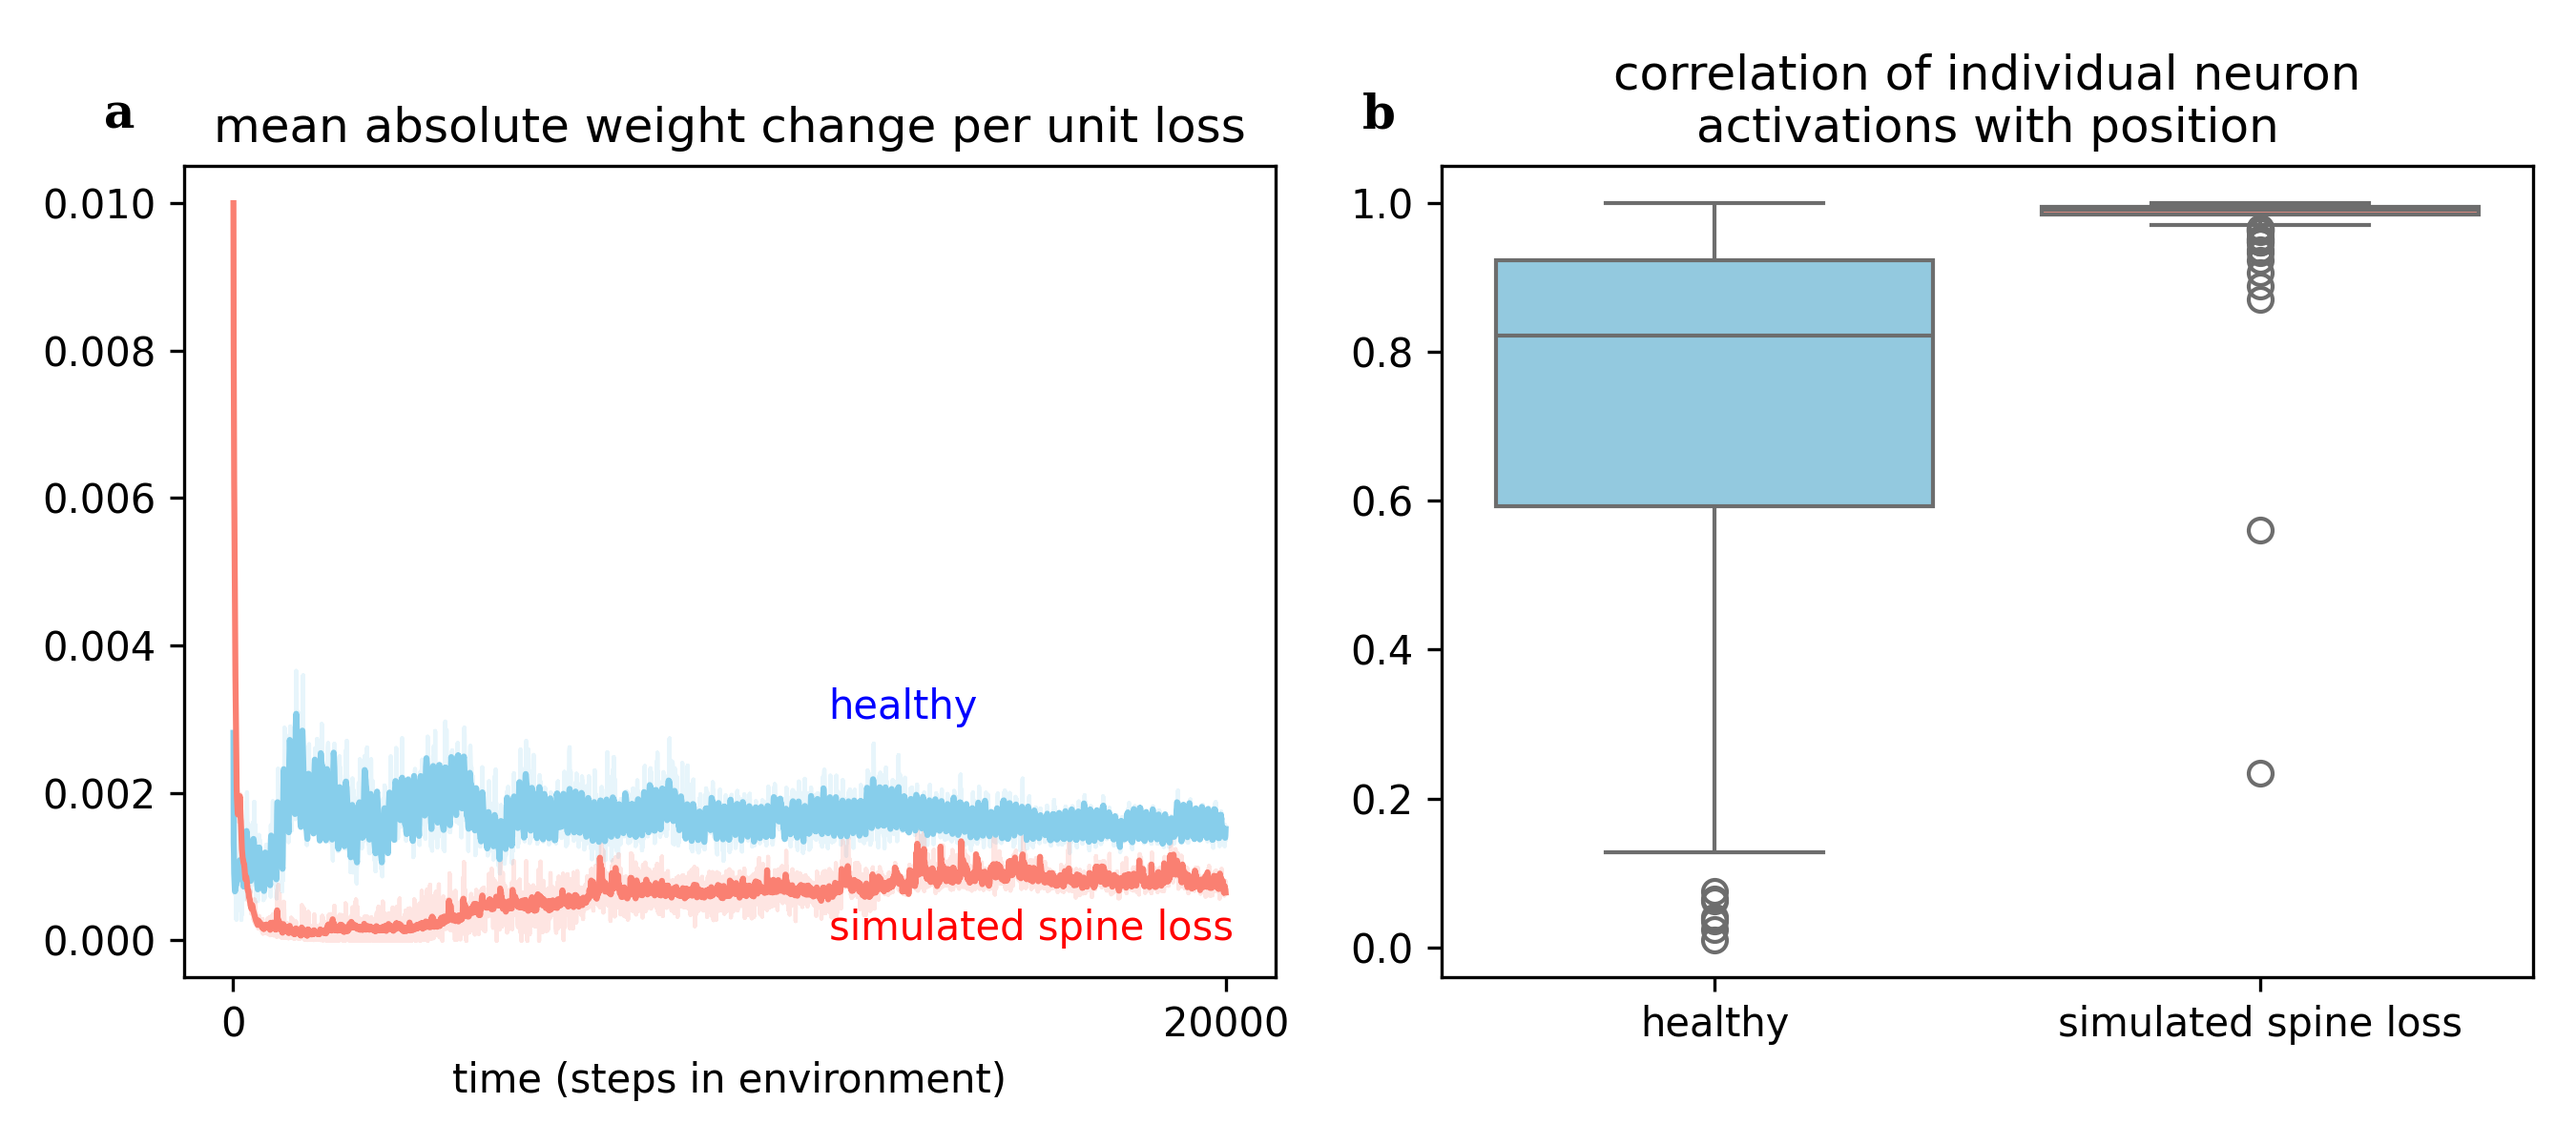
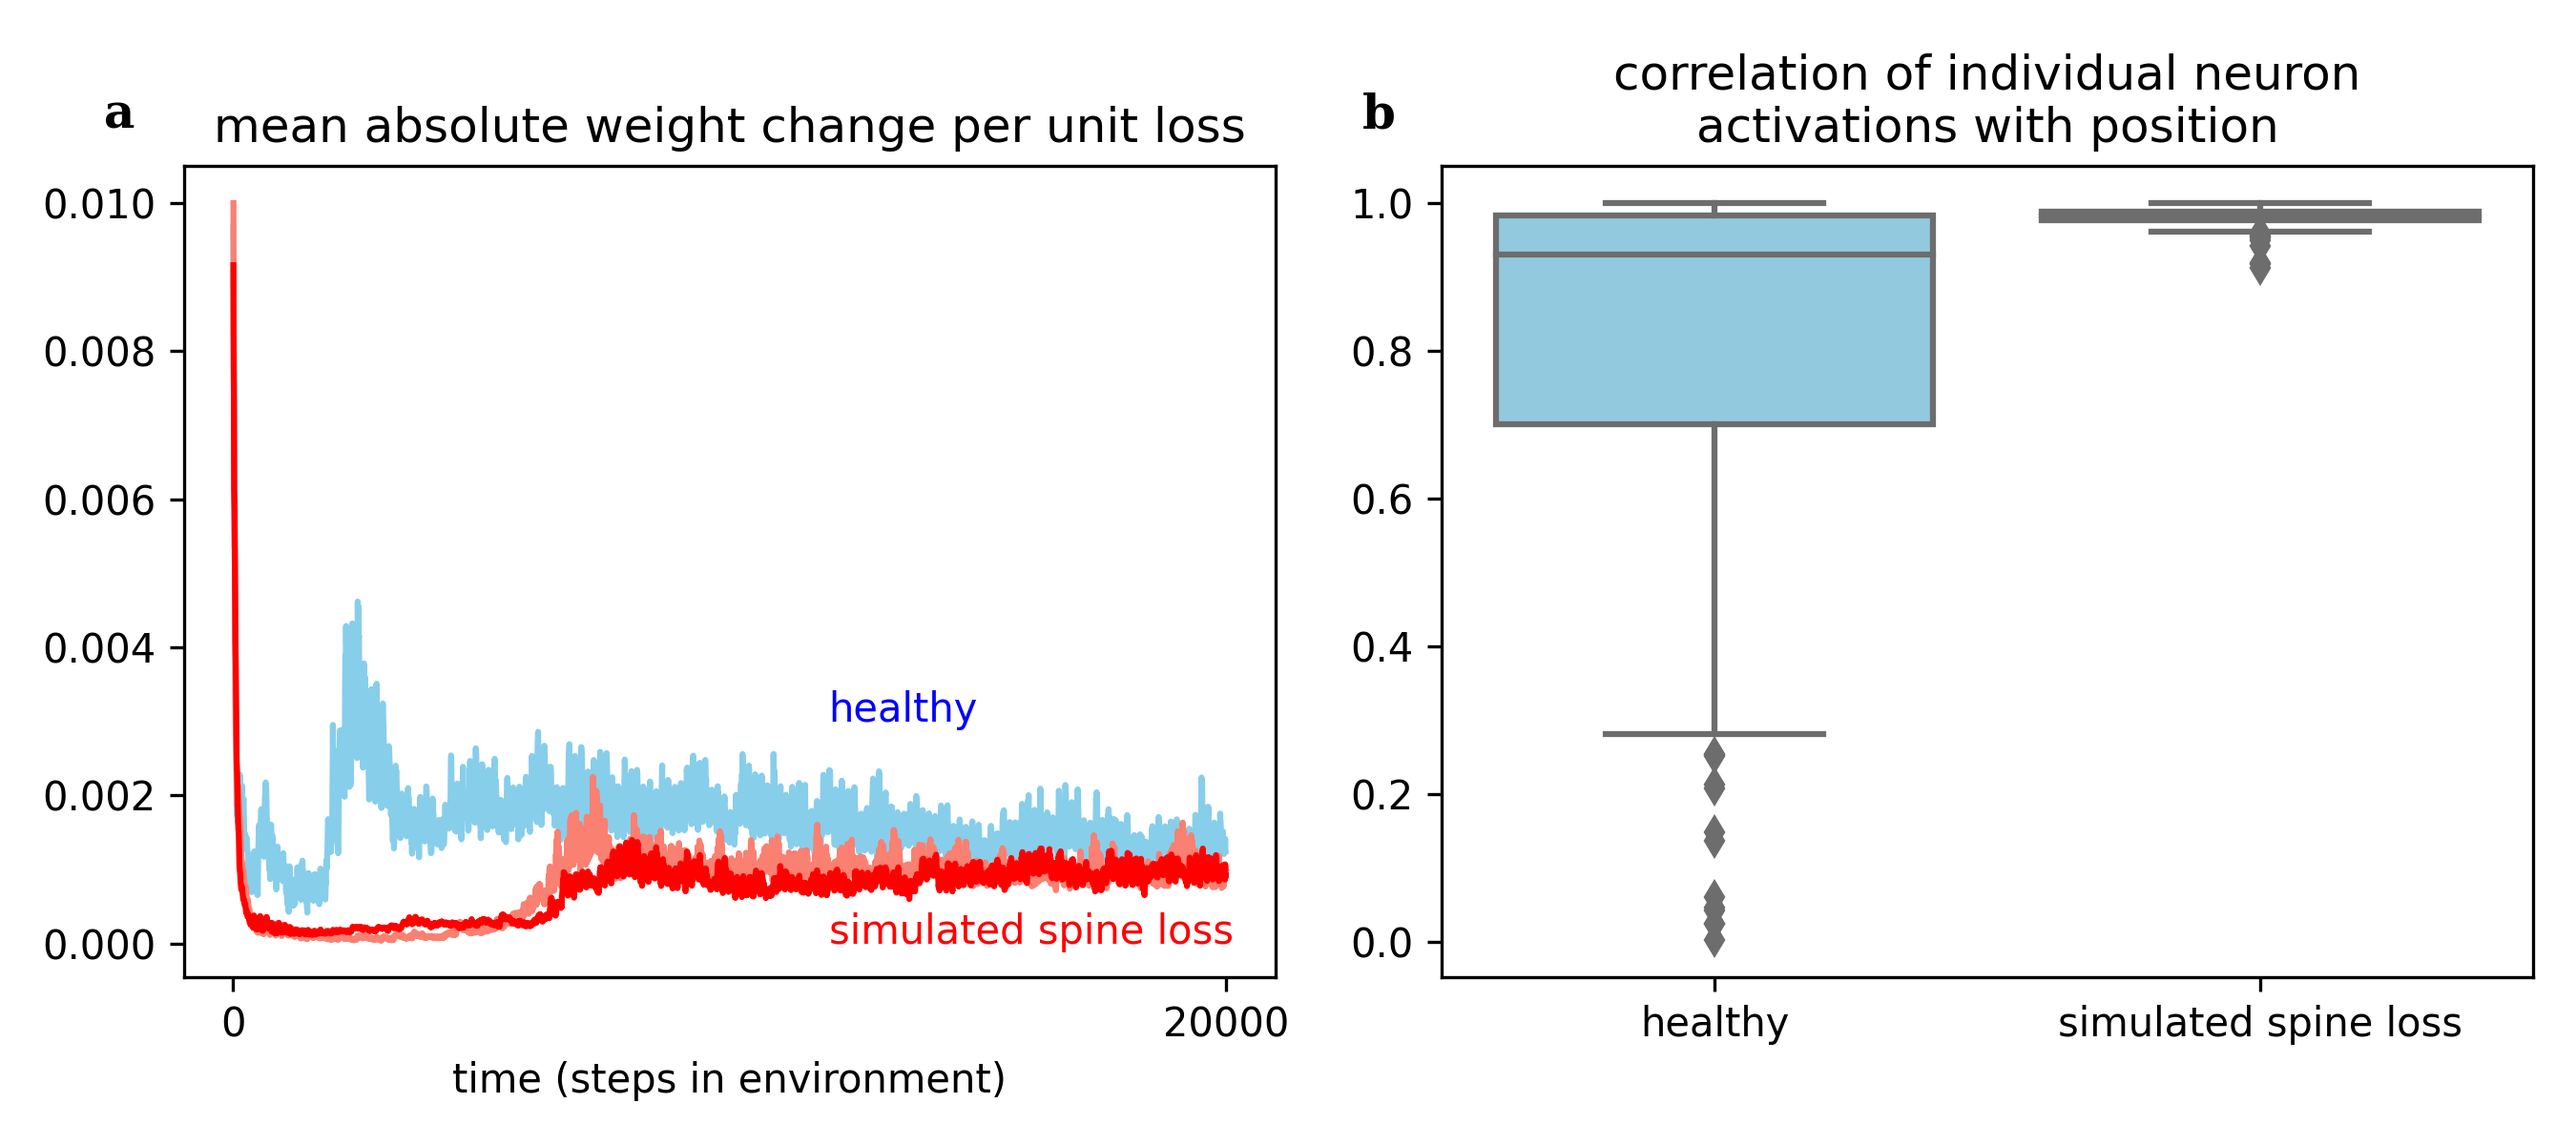
paper-ready figures

diff --git a/blue_ai/scripts/schizophrenia/view_representations_2.py b/blue_ai/scripts/schizophrenia/view_representations_2.py
@@ -1,0 +1,174 @@
+import pandas as pd
+import time
+
+from blue_ai.envs.custom_wrappers import Image2VecWrapper
+from blue_ai.envs.transient_goals import TransientGoals
+from blue_ai.scripts.constants import DATA_PATH, _CURRENT_DIR
+from blue_ai.scripts.schizophrenia.train_interpretation_models import RepresentationProbe
+
+import seaborn as sns
+import numpy as np
+import matplotlib.pyplot as plt
+import pickle
+import torch.nn as nn
+import torch
+
+
+if __name__ == '__main__':
+
+    mode = 'interactive'  # interactive or datagen
+    include = ['Healthy', 'Schizophrenic']  #, 'Depressed']
+
+    with open(DATA_PATH / 'interpretation_models.pkl', 'rb') as f:
+        interpretation_models = pickle.load(f)
+        interpretation_models['agent_name'] = interpretation_models['agent']
+        interpretation_models['agent_name'] = interpretation_models['agent_name'].astype(str).replace(
+            {'HealthyAgent': 'Healthy',
+             'SpineLossDepression': 'Depressed',
+             'SchizophrenicAgent': 'Schizophrenic'
+             }
+        )
+        interpretation_models = interpretation_models[interpretation_models['agent_name'].isin(include)].reset_index()
+
+
+    def plot(state):
+
+        for i in range(3):
+            ax[i].cla()
+
+        ax[0].imshow(env.render())
+        ax[1].imshow(Image2VecWrapper.observation_to_image(state))
+        state = torch.tensor(np.expand_dims(state, 0).astype(np.float32),
+                             device=interpretation_models['agent'][0].device)
+
+        for index, row in interpretation_models[interpretation_models['filename'].str.contains('_0.pkl')].iterrows():
+            recon = row['interpretation_model'].get_reconstructions(observations=state)[1][0]
+            mse = nn.MSELoss()(recon, state)
+            print(row['filename'], mse)
+            recon[recon < 0] = 0
+            ax[2 + index].imshow(Image2VecWrapper.observation_to_image(recon.cpu() ** 1.5, closest=True))
+            ax[2 + index].set_title(f"{row['agent_name']} reconstructed")  # ({round(float(mse), 2)})")
+
+        for i in range(4):
+            ax[i].set_xticks([])
+            ax[i].set_yticks([])
+
+        for i in range(1, 4):
+            t = plt.Polygon([[1.75, 4.25], [2.25, 4.25], [2, 3.75]], color='red')
+            ax[i].add_patch(t)
+
+        ax[1].set_title('visual input')
+        plt.pause(0.01)
+
+    def add_noise(std):
+        # add noise to the networks
+        for index, row in interpretation_models.iterrows():
+            for layer in row['interpretation_model'].agent.policy_net:
+                if hasattr(layer, 'std'):
+                    print(f'changing noise std from {layer.std} to {std}')
+                    layer.std = std
+
+    if mode == 'interactive':
+        # create an environment
+        env = Image2VecWrapper(
+            TransientGoals(
+                render_mode="rgb_array", transient_reward=0.25, termination_reward=1
+            ),
+            noise_level=0.0
+        )
+        state, _ = env.reset()
+
+        add_noise(0.2)
+
+        def process(event):
+            global state
+            if event.key == 'left':
+                action = 0
+            elif event.key == 'right':
+                action = 1
+            elif event.key == 'up':
+                action = 2
+            elif event.key == 'f':
+                plt.savefig(DATA_PATH / 'hallucinations' / f'{time.time()}.png', dpi=300)
+                return
+            else:
+                return
+
+            state, _, done, _, _ = env.step(action)
+            if done:
+                state, _ = env.reset()
+            plot(state)
+
+
+        # create figure window
+        fig, ax = plt.subplots(1, 4)
+        fig.canvas.mpl_connect('key_press_event', process)
+        plot(state)
+
+        plt.show()
+
+    elif mode == 'datagen':
+        datapoints = []
+        # env.env.render_mode = "human"
+
+        for std in [0.45, 0.3, 0.15, 0]:
+            add_noise(std)
+
+            for index, row in interpretation_models.iterrows():
+                print(std, row['filename'])
+                for step in range(1_000):
+                    # action = np.random.choice([0, 1, 2], p=[0.2, 0.2, 0.6])
+                    # state, _, done, _, _ = env.step(action)
+                    # if done:
+                    #     state, _ = env.reset()
+                    # create an environment
+                    env = Image2VecWrapper(
+                        TransientGoals(
+                            render_mode="rgb_array", transient_reward=0.25, termination_reward=1,
+                            agent_start_dir=np.random.randint(0, 4),
+                            agent_start_pos=np.random.randint(1, 6, 2)
+                        ),
+                        noise_level=0.0
+                    )
+                    state, _ = env.reset()
+
+                    state = torch.tensor(np.expand_dims(state, 0).astype(np.float32), device=row['agent'].device)
+                    recon = row['interpretation_model'].get_reconstructions(observations=state)[1][0]
+                    mse = nn.MSELoss()(recon, state).item()
+                    itemwise_error = (recon - state.squeeze()).sum(axis=1).sum(axis=1).numpy()
+                    datapoints.append(
+                        {
+                            'agent': row['agent_name'],
+                            'std': std,
+                            'mse': mse,
+                            'error_wall': itemwise_error[0],
+                            'error_goal': itemwise_error[1],
+                            'error_goalNoTerminate': itemwise_error[2],
+                            'error_obstacleNoTerminate': itemwise_error[3],
+                        }
+                    )
+
+        with open(DATA_PATH / 'reconstruction_error.pkl', 'wb') as f:
+            pickle.dump(datapoints, f)
+
+        datapoints = pd.DataFrame(datapoints)
+        # fig, axes = plt.subplots(1, 2)
+
+        # plt.sca(axes[0])
+        sns.lineplot(data=datapoints, x='std', y='mse', hue='agent', palette=['blue', 'orange'])
+        plt.ylabel('mean-squared error in reconstructing visual input')
+        plt.xlabel('standard deviation of added noise')
+
+        # plt.sca(axes[1])
+        # sns.lineplot(data=datapoints, x='std', y='error_wall', color='grey', style='agent')
+        # sns.lineplot(data=datapoints, x='std', y='error_goal', color='green', style='agent')
+        # sns.lineplot(data=datapoints, x='std', y='error_goalNoTerminate', color='blue', style='agent')
+        # sns.lineplot(data=datapoints, x='std', y='error_obstacleNoTerminate', color='red', style='agent')
+        plt.grid()
+
+
+        datapoints.to_csv(_CURRENT_DIR / 'schizophrenia' / 'img' / 'recon_error_data.csv', index=None)
+        plt.show()
+
+    else:
+        raise Exception('mode must be "interactive" or "datagen"')

diff --git a/blue_ai/scripts/view_perceived_fear_2.py b/blue_ai/scripts/view_perceived_fear_2.py
@@ -1,6 +1,6 @@
 import pandas as pd
 
-from blue_ai.envs.transient_goals import TransientGoals
+from blue_ai.envs.transient_goals import TransientGoals, Actions
 from blue_ai.envs.custom_wrappers import Image2VecWrapper
 from blue_ai.scripts.train_agents import load_trial
 import matplotlib.pyplot as plt
@@ -16,6 +16,7 @@ class PerceivedFearPlotter:
         self,
         agent_classes=(agent_classes.HealthyAgent, agent_classes.SpineLossDepression),
         save_filenames=None,
+        actions_included=(Actions.forward,),
     ):
         self.all_values = []
 
@@ -44,21 +45,26 @@ class PerceivedFearPlotter:
 
                     this_agent_values = agent.get_action_values(state).cpu().numpy()
 
-                    self.all_values.append(
-                        [trial, agent.display_name, agent_pos, this_agent_values[2]]
-                    )
+                    for action in actions_included:
+                        self.all_values.append(
+                            {
+                                'trial': trial,
+                                'agent': agent.display_name,
+                                'position': agent_pos,
+                                'value': this_agent_values[action.value],
+                                'direction': action.name
+                            }
+                        )
 
-        self.all_values = pd.DataFrame(
-            data=self.all_values, columns=["trial", "agent", "position", "value"]
-        )
+        self.all_values = pd.DataFrame(data=self.all_values)
         initial_values = (
-            self.all_values.groupby(["trial", "agent"])
+            self.all_values.groupby(["trial", "agent", 'direction'])
             .first()["value"]
             .reset_index()
             .rename({"value": "initial"}, axis=1)
         )
         self.all_values = pd.merge(
-            self.all_values, initial_values, on=["trial", "agent"]
+            self.all_values, initial_values, on=["trial", "agent", 'direction']
         )
         self.all_values["value"] = (self.all_values["value"] + 0.1) / (
             self.all_values["initial"] + 0.1
@@ -88,7 +94,7 @@ class PerceivedFearPlotter:
     def plot_value_of_forward(self, ax, **kwargs):
         plt.sca(ax)
         sns.lineplot(
-            self.all_values, x="position", y="value", hue="agent", n_boot=10, **kwargs
+            self.all_values, x="position", y="value", hue="agent", style='direction' if 'direction' in self.all_values else None, n_boot=10, **kwargs
         )
         plt.xticks([1, 2, 3, 4])
         plt.title("perceived value of moving forward\n(normalized to position 1 value)")

diff --git a/blue_ai/scripts/schizophrenia/view_recon_error.py b/blue_ai/scripts/schizophrenia/view_recon_error.py
@@ -1,0 +1,52 @@
+from blue_ai.scripts.constants import _CURRENT_DIR, DATA_PATH
+import matplotlib.transforms as mtransforms
+import pandas as pd
+import matplotlib.pyplot as plt
+import seaborn as sns
+
+mosaic = """
+    a
+    b
+    """
+fig, axes = plt.subplot_mosaic(
+    mosaic,
+    figsize=(11, 8),
+    # width_ratios=[10, 10],
+    # height_ratios=[47.5, 5, 47.5],
+)
+
+
+datapoints = pd.read_csv(_CURRENT_DIR / 'schizophrenia' / 'img' / 'recon_error_data.csv')
+datapoints['agent'] = datapoints['agent'].str.lower()
+plt.sca(axes['a'])
+sns.lineplot(data=datapoints[datapoints['std'] <= 0.3], x='std', y='mse', hue='agent', palette=['blue', 'orange'])
+plt.ylabel('mean-squared error of reconstruction')
+plt.xlabel('standard deviation of added noise')
+plt.title('error in reconstructing visual input')
+
+
+for fname, ax in (('1741297681.590705.png', axes['b']),):  #('1741297930.701264.png', axes['b']),)):
+    im = plt.imread(DATA_PATH / 'hallucinations' / fname)
+    ax.imshow(im[800:2100, 680:5200, :])
+    ax.axis('off')
+    ax.set_xticks([])
+    ax.set_yticks([])
+
+
+for label, ax in axes.items():
+    # label physical distance to the left and up:
+    trans = mtransforms.ScaledTranslation(-20 / 72, 7 / 72, fig.dpi_scale_trans)
+    ax.text(
+        0.0,
+        1.0,
+        label,
+        transform=ax.transAxes + trans,
+        fontsize="large",
+        weight="bold",
+        va="bottom",
+        fontfamily="serif",
+    )
+
+plt.savefig(_CURRENT_DIR / 'schizophrenia' / 'img' / 'recon_error.png', dpi=400)
+plt.tight_layout()
+plt.show()

diff --git a/blue_ai/scripts/schizophrenia/view_performance_2.py b/blue_ai/scripts/schizophrenia/view_performance_2.py
@@ -8,13 +8,13 @@ import pandas as pd
 
 
 mosaic = """
-    abc
-    ade
+    bc
+    de
     """
 fig, axes = plt.subplot_mosaic(
     mosaic,
     figsize=(11, 8),
-    # width_ratios=[10, 10, 1, 10],
+    # width_ratios=[10, 10],
     # height_ratios=[47.5, 5, 47.5],
 )
 
@@ -40,6 +40,11 @@ for result_set in result_sets:
     plt.xlabel('')
     plt.ylim([0, 2.2])
 
+    if result_set[1] in ['b', 'd']:
+        plt.ylabel('number of objects found per episode')
+    else:
+        y_ticks = plt.yticks()[0]
+        plt.yticks(y_ticks, labels=['' for _ in range(len(y_ticks))])
 
     if result_set[3]:
         # sns.move_legend()
@@ -48,13 +53,6 @@ for result_set in result_sets:
         plt.legend([], [], frameon=False)
 
 
-datapoints = pd.read_csv(_CURRENT_DIR / 'schizophrenia' / 'img' / 'recon_error_data.csv')
-datapoints['agent'] = datapoints['agent'].str.lower()
-plt.sca(axes['a'])
-sns.lineplot(data=datapoints, x='std', y='mse', hue='agent', palette=['blue', 'orange'])
-plt.ylabel('mean-squared error of reconstruction')
-plt.xlabel('standard deviation of added noise')
-plt.title('error in reconstructing visual input')
-
-plt.savefig(_CURRENT_DIR / 'schizophrenia' / 'img' / 'recon_performance.png', dpi=400)
+plt.tight_layout()
+plt.savefig(_CURRENT_DIR / 'schizophrenia' / 'img' / 'effect_of_noise.png', dpi=400)
 plt.show()

diff --git a/blue_ai/scripts/schizophrenia/view_percieved_fear.py b/blue_ai/scripts/schizophrenia/view_percieved_fear.py
@@ -1,5 +1,6 @@
 from blue_ai.scripts.view_perceived_fear_2 import PerceivedFearPlotter
 from blue_ai.scripts.constants import DATA_PATH, N_TRIALS, _CURRENT_DIR
+from blue_ai.envs.transient_goals import Actions
 import matplotlib.pyplot as plt
 
 
@@ -11,12 +12,14 @@ plotter = PerceivedFearPlotter(
             DATA_PATH / f'HealthyAgent_{trial}.pkl',
             DATA_PATH / f'addNoise_SchizophrenicAgent_{trial}.pkl'
         ]
-    ]
+    ],
+    actions_included=[Actions.right, Actions.forward]
 )
 
 fig, ax = plt.subplots(1, 2)
 plotter.plot_env_locations(ax[0])
-plotter.plot_value_of_forward(ax[1])
+plotter.plot_value_of_forward(ax[1], palette=['blue', 'orange'])
+ax[1].set_title('perceived value of actions\n(normalized to position 1 value)')
 
 plt.savefig(_CURRENT_DIR / 'schizophrenia' / 'img' / 'fear.png', dpi=400)
 plt.show()

diff --git a/blue_ai/scripts/train_agents.py b/blue_ai/scripts/train_agents.py
@@ -140,7 +140,7 @@ def main():
 
     agents: List[BaseAgent] = [
         HealthyAgent(),
-        SpineLossDepression(),
+        # SpineLossDepression(),
         # ContextDependentLearningRate(),
         # HighDiscountRate(),
         # ScaledTargets(),

diff --git a/blue_ai/scripts/constants.py b/blue_ai/scripts/constants.py
@@ -2,7 +2,7 @@ from pathlib import Path
 
 _CURRENT_DIR = Path(__file__).parent
 
-N_TRIALS = 5
+N_TRIALS = 10
 
 FIGURE_PATH = _CURRENT_DIR / "img"
 DATA_PATH = _CURRENT_DIR / "data"
